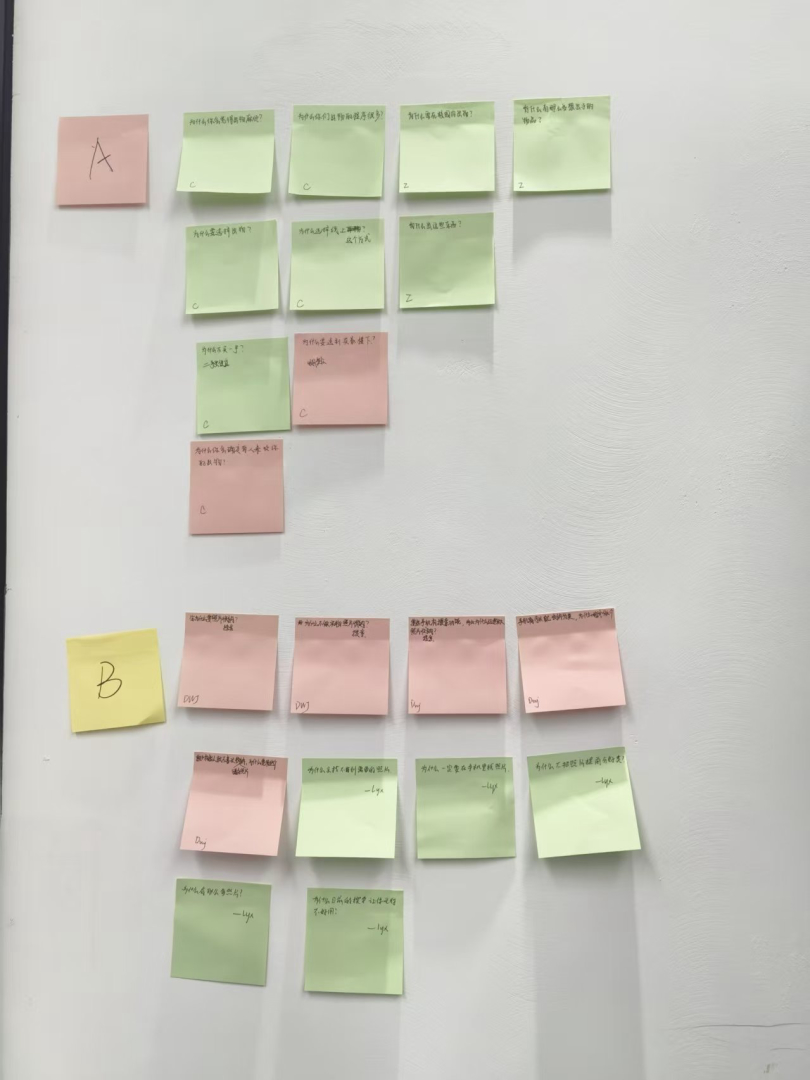
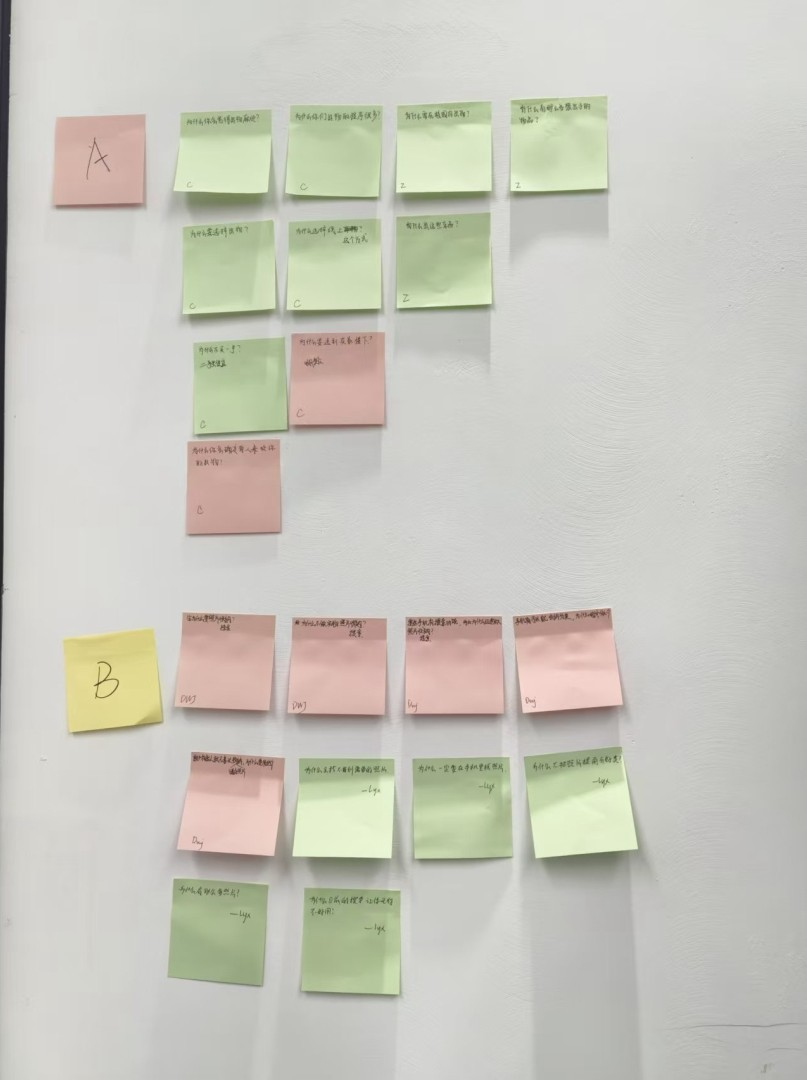
竞品页对手改案例；头脑风暴便签与AI想法上下放置+白板图裁黑边满高cover；设计页手绘稿去固定高度放大铺满；测试标签改7位；nav logo换APP图标；对比页12-18去白框重排版放大

diff --git a/index.html b/index.html
@@ -13,7 +13,8 @@ body{font-family:"PingFang SC","Microsoft YaHei",system-ui,sans-serif;background
 /* 顶部导航 */
 nav{position:sticky;top:0;z-index:50;background:rgba(246,247,250,.92);backdrop-filter:blur(8px);border-bottom:1px solid var(--line)}
 nav .wrap{display:flex;align-items:center;gap:18px;height:52px;font-size:.8rem}
-nav .lg{font-weight:900;font-size:.95rem}
+nav .lg{font-weight:900;font-size:.95rem;display:flex;align-items:center;gap:8px}
+nav .lg .lgico{width:27px;height:27px;border-radius:8px;object-fit:cover;box-shadow:0 2px 6px rgba(21,23,28,.18)}
 nav a{color:var(--mut);text-decoration:none;font-weight:600}
 nav a:hover{color:var(--ink)}
 nav .cta{margin-left:auto;background:var(--ink);color:#fff;padding:6px 14px;border-radius:999px;font-weight:700}
@@ -157,9 +158,9 @@ details .dbody{padding:0 16px 16px;font-size:.78rem;color:#4A5063}
 .povimg img{width:100%;border-radius:8px;display:block}
 .povcap{font-size:.74rem;color:var(--mut);margin-top:12px;line-height:1.7}
 .povcap b{color:var(--ink);display:block;margin-bottom:2px;font-size:.8rem}
-.sk2{display:grid;grid-template-columns:1fr 1fr;gap:16px;margin-bottom:16px}
-.sk2 figure{margin:0;background:#fff;border:1px solid var(--line);border-radius:16px;padding:14px 14px 12px;box-shadow:0 10px 28px rgba(21,23,28,.06);display:flex;flex-direction:column}
-.sk2 img{width:100%;height:380px;object-fit:contain;border-radius:10px;background:#fff;border:1px solid var(--line)}
+.sk2{display:grid;grid-template-columns:1fr 1fr;gap:16px;margin-bottom:16px;align-items:start}
+.sk2 figure{margin:0;background:#fff;border:1px solid var(--line);border-radius:16px;padding:10px 10px 12px;box-shadow:0 10px 28px rgba(21,23,28,.06);display:flex;flex-direction:column}
+.sk2 img{width:100%;height:auto;object-fit:contain;border-radius:10px;background:#fff;border:1px solid var(--line)}
 .sk2 figcaption{font-size:.72rem;color:var(--mut);margin-top:12px;line-height:1.7}
 .sk2 figcaption b{display:block;color:var(--ink);font-size:.78rem;margin-bottom:2px}
 .vis2{display:grid;grid-template-columns:340px 1fr;gap:16px}
@@ -188,9 +189,11 @@ details .dbody{padding:0 16px 16px;font-size:.78rem;color:#4A5063}
 .emoline{background:#FFFDF9;border:1px solid var(--line);border-radius:16px;padding:16px 18px 10px;margin-top:16px;box-shadow:0 8px 22px rgba(21,23,28,.05)}
 .emoline svg{width:100%;max-width:900px;display:block;margin:0 auto}
 /* 头脑风暴 */
-.bs3{display:grid;grid-template-columns:1fr 1fr 1fr;gap:14px;margin-bottom:10px}
-.bs3 figure{margin:0;background:#fff;border:1px solid var(--line);border-radius:16px;padding:12px;box-shadow:0 10px 28px rgba(21,23,28,.05)}
-.bs3 img{width:100%;height:300px;object-fit:contain;border-radius:8px;background:#FBFCFE}
+.bs3{display:grid;grid-template-columns:1fr 1fr;gap:14px;margin-bottom:10px;align-items:stretch}
+.bs3 figure{margin:0;background:#fff;border:1px solid var(--line);border-radius:16px;padding:12px;box-shadow:0 10px 28px rgba(21,23,28,.05);display:flex;flex-direction:column}
+.bs3 img{width:100%;height:260px;object-fit:contain;border-radius:8px;background:#FBFCFE}
+.bs3 figure:nth-child(2){grid-row:span 2}
+.bs3 figure:nth-child(2) img{height:auto;flex:1;min-height:0;object-fit:cover}
 .bs3 figcaption{font-size:.7rem;color:var(--mut);margin-top:10px;text-align:left;line-height:1.6}
 .bs3 figcaption b{display:block;color:var(--ink);font-size:.78rem;margin-bottom:2px}
 .brain{display:grid;grid-template-columns:1.2fr .8fr;gap:14px;margin-bottom:14px}
@@ -223,9 +226,9 @@ details .dbody{padding:0 16px 16px;font-size:.78rem;color:#4A5063}
 .sc b{display:block;font-size:.9rem;margin-bottom:6px}
 .sc p{font-size:.74rem;color:var(--mut)}
 /* 对比 */
-.pair{background:#fff;border:1px solid var(--line);border-radius:18px;padding:18px;margin-bottom:16px;box-shadow:0 10px 28px rgba(21,23,28,.05)}
-.pair-h{display:flex;align-items:baseline;gap:10px;margin-bottom:12px}
-.pair-h b{font-size:.95rem}
+.pair{background:transparent;border:none;border-radius:0;padding:8px 0;margin-bottom:22px;box-shadow:none}
+.pair-h{display:flex;align-items:baseline;gap:10px;margin-bottom:14px}
+.pair-h b{font-size:1rem}
 .pair-h .idx{font-family:ui-monospace,monospace;color:var(--or);font-weight:900}
 .bapair{display:grid;grid-template-columns:1fr 1fr;gap:14px;max-width:560px;margin:0 auto}
 .mini{background:#fff;border:1px solid var(--line);border-radius:16px;overflow:hidden;position:relative;font-size:.58rem;box-shadow:0 10px 24px rgba(21,23,28,.08)}
@@ -245,8 +248,8 @@ details .dbody{padding:0 16px 16px;font-size:.78rem;color:#4A5063}
 .tgl{width:26px;height:14px;background:#F08C3D;border-radius:999px;position:relative;flex:none}
 .tgl::after{content:"";position:absolute;right:2px;top:2px;width:10px;height:10px;background:#fff;border-radius:50%}
 .co{position:absolute;z-index:3;width:18px;height:18px;background:var(--red);color:#fff;border-radius:50%;font-size:.55rem;font-weight:900;display:flex;align-items:center;justify-content:center;box-shadow:0 2px 8px rgba(232,69,44,.4)}
-.pair2{display:grid;grid-template-columns:1fr 1fr;gap:10px;max-width:860px;margin:0 auto}
-.pair2 img{width:100%;border-radius:12px;border:1px solid var(--line);display:block}
+.pair2{display:grid;grid-template-columns:1fr 1fr;gap:18px;max-width:none;margin:0 auto}
+.pair2 img{width:100%;border-radius:14px;border:none;display:block;box-shadow:0 16px 38px rgba(21,23,28,.14)}
 .flowbox{background:#fff;border:1px solid var(--line);border-radius:18px;padding:26px;box-shadow:0 10px 28px rgba(21,23,28,.05);text-align:center}
 .flowbox img{width:100%;max-width:920px;border-radius:10px;display:block;margin:0 auto}
 /* 演示视频位 */
@@ -373,7 +376,7 @@ footer{border-top:1px solid var(--line);padding:26px 0;font-size:.66rem;color:va
 <body>
 
 <nav><div class="wrap">
-  <span class="lg">🪿 闲鹅</span>
+  <span class="lg"><img class="lgico" src="assets/design/app-icon.jpg" alt="闲鹅图标">闲鹅</span>
   <a href="#" data-goto="0">封面</a><a href="#" data-goto="1">痛点</a><a href="#" data-goto="2">市场</a><a href="#" data-goto="3">竞品</a><a href="#" data-goto="4">调研</a><a href="#" data-goto="6">问题</a><a href="#" data-goto="8">设计</a><a href="#" data-goto="10">迭代</a><a href="#" data-goto="18">演示</a><a href="#" data-goto="20">展望</a>
   <a class="cta" href="https://quanbo1.github.io/campus-trade-ui-v529/" target="_blank">在线体验 →</a>
 </div></nav>
@@ -455,8 +458,8 @@ footer{border-top:1px solid var(--line);padding:26px 0;font-size:.66rem;color:va
 <!-- 03 竞品分析 -->
 <section id="rivals" class="slide"><div class="wrap">
   <div class="kick">03 · Competitive Analysis</div>
-  <h2>三个对手，<span class="g">三段空白</span></h2>
-  <p class="lede">竞品调研结论（完整流程拆解见附录折叠）：每个对手都只解决了交易的一段。</p>
+  <h2>三个案例，<span class="g">三段空白</span></h2>
+  <p class="lede">竞品调研结论（完整流程拆解见附录折叠）：每个案例都只解决了交易的一段。</p>
   <div class="rivals rv">
     <div class="rv-card">
       <div class="lg2"><img class="mk" src="assets/logos/logo-1.png" alt="闲鱼图标"><div><b>闲鱼</b><small>直接竞品 · 综合二手平台</small></div></div>
@@ -678,7 +681,7 @@ footer{border-top:1px solid var(--line);padding:26px 0;font-size:.66rem;color:va
 
   <div class="story rv">
     <div class="sc"><span class="vtag a">1.0 · 骨架</span><b>五个入口，一条顺路</b><p>首页小市集 / 广场 / 发布 / 消息 / 我的，覆盖「逛 → 搜 → 发 → 聊 → 管」全流程。</p></div>
-    <div class="sc"><span class="vtag b">用户测试 · 5 位</span><b>真实上手暴露问题</b><p>消息页没有退路、偏好设置太复杂、图片看不清就要下单……7 次用户测试中的核心轮次，沉淀出 8 处升级点。</p></div>
+    <div class="sc"><span class="vtag b">用户测试 · 7 位</span><b>真实上手暴露问题</b><p>消息页没有退路、偏好设置太复杂、图片看不清就要下单……7 次用户测试中的核心轮次，沉淀出 8 处升级点。</p></div>
     <div class="sc"><span class="vtag c">2.0 · 升级</span><b>AI 发布 30 秒，驿站自提</b><p>AI 拍照识别生成标签与描述；东门驿站自提 / 送到楼下；偏好档案匹配相似用户。</p></div>
   </div>
 </div></section>
